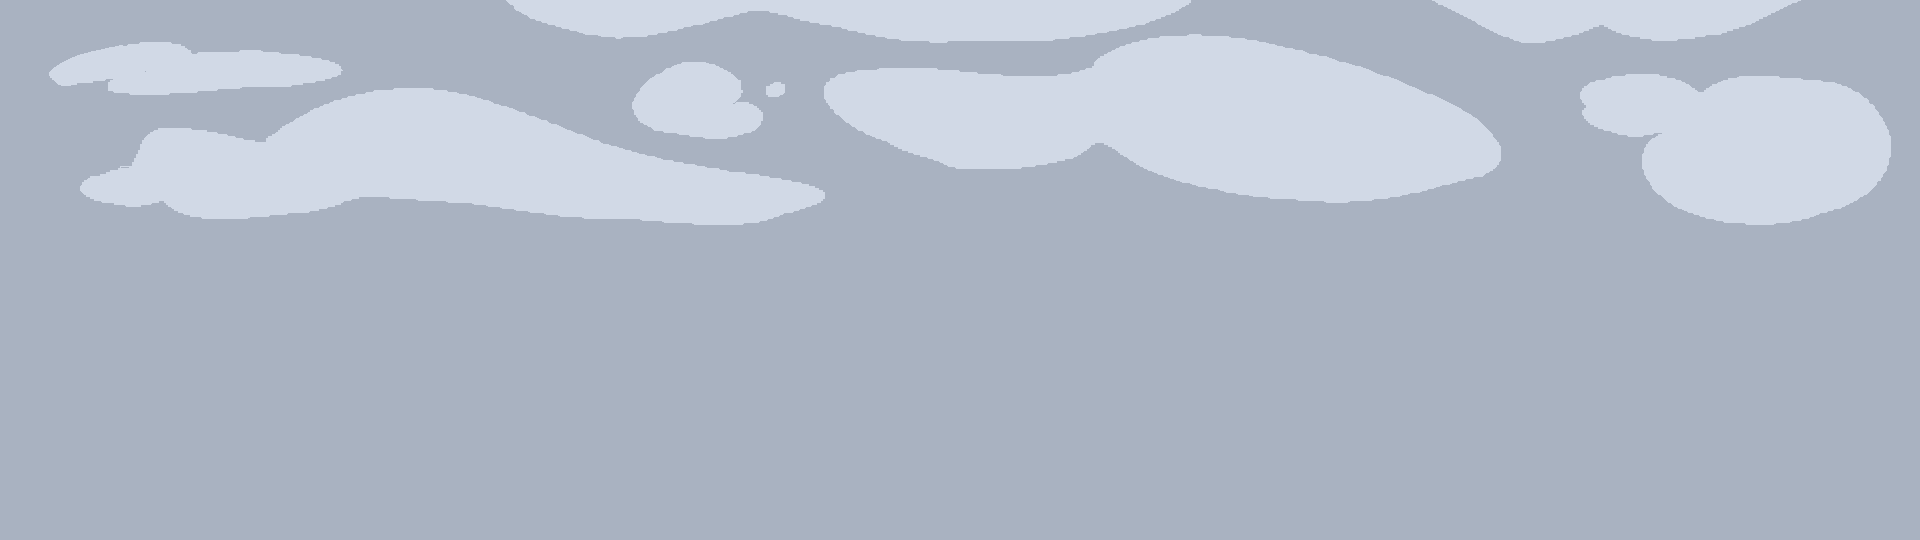
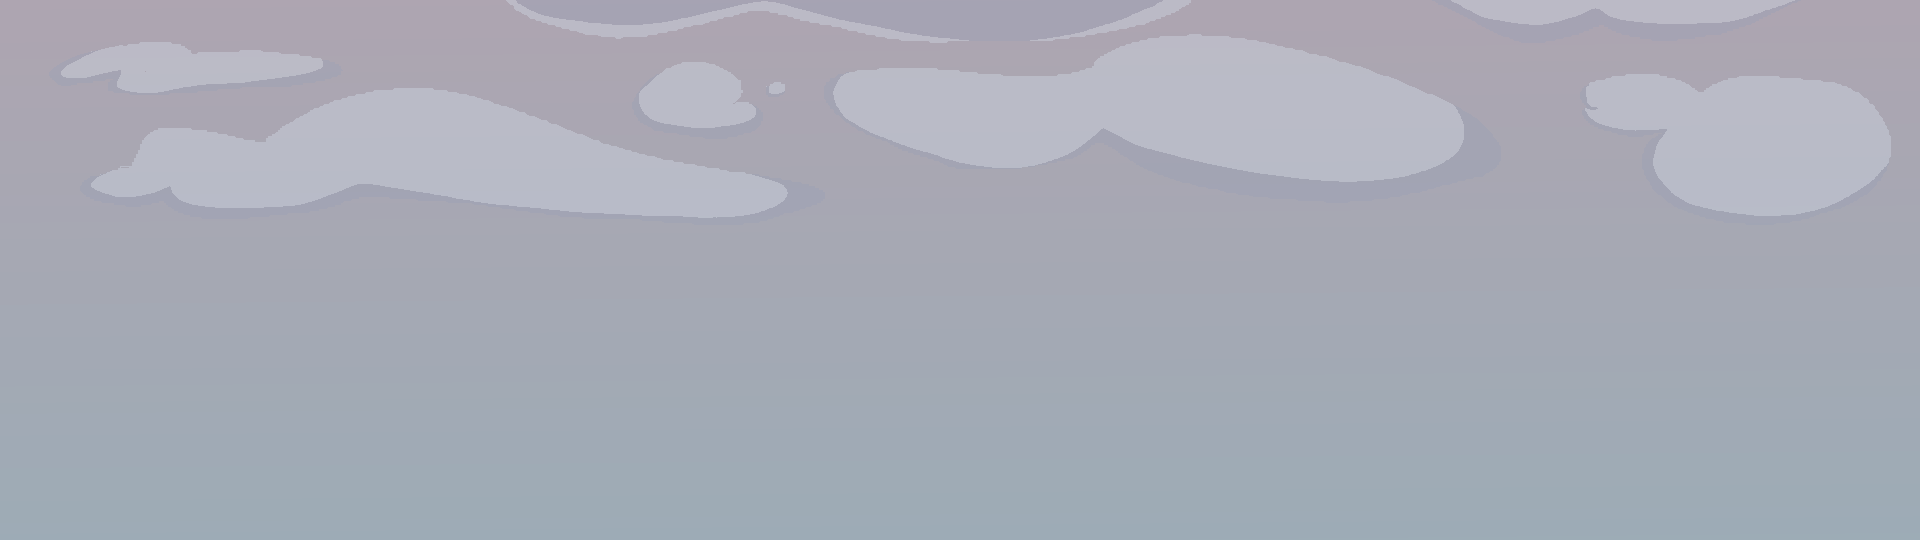
buttons added (reroute controls and credits and improve title background)

diff --git a/src/scenes/Menu.js b/src/scenes/Menu.js
@@ -5,22 +5,72 @@ class Menu extends Phaser.Scene {
 
     preload(){
         //load images
-        this.load.image('clouds', './assets/first.png');
-        this.load.image('city', './assets/tile_menu2.png');
+        this.load.image('clouds', './assets/tile_menu.png');
+        this.load.image('hills1', './assets/front1.png');
+        this.load.image('hills2', './assets/front2.png');
+        this.load.image('hills3', './assets/front3.png');
         this.load.image('hill', './assets/title1.png');
+        this.load.spritesheet('title', './assets/name.png', {frameWidth: 960, frameHeight: 540, startFrame: 0});
+        this.load.image('play', './assets/play_button.png');
+        this.load.image('controls', './assets/control_button.png');
+        this.load.image('credits', './assets/credits_button.png');
         
     }
 
     create(){
-        this.scene.start('playScene1');
+        //this.scene.start('playScene1');
         this.back2 = this.add.tileSprite(0, 0, 960, 540, 'clouds').setOrigin(0, 0);
         //this.back1 = this.add.tileSprite(0, 0, 960, 540, 'city'). setOrigin(0, 0);
-        this.front = this.add.tileSprite(0, 0, 960, 540, 'hill').setOrigin(0, 0);
         
+        this.front3 = this.add.tileSprite(0, 0, 960, 540, 'hills3').setOrigin(0, 0);
+        this.front2 = this.add.tileSprite(0, 0, 960, 540, 'hills2').setOrigin(0, 0);
+        this.front1 = this.add.tileSprite(0, 0, 960, 540, 'hills1').setOrigin(0, 0);
+        
+        this.front = this.add.tileSprite(0, 0, 960, 540, 'hill').setOrigin(0, 0);
+        this.title = this.add.sprite(0, 0, 'title').setOrigin(0, 0);
+        this.play = this.add.sprite(0, 0, 'play').setOrigin(0, 0);
+        this.controls = this.add.sprite(0, 0, 'controls').setOrigin(0, 0);
+        this.credits = this.add.sprite(0, 0, 'credits').setOrigin(0, 0);
+
+        // Enable input events for the whole scene
+        this.play.setInteractive();
+        this.play.on('pointerdown', () => {
+            this.scene.start('playScene1');
+            // Add code here to run when the scene is clicked
+        });
+        this.controls.setInteractive();
+        this.controls.on('pointerdown', () => {
+            this.scene.start('playScene1');
+            // Add code here to run when the scene is clicked
+        });
+
+        this.controls.setInteractive();
+        this.controls.on('pointerdown', () => {
+            this.scene.start('playScene1');
+            // Add code here to run when the scene is clicked
+        });
+
+
+
+        //create animations
+        this.anims.create({
+            key: 'wave',
+            frames: this.anims.generateFrameNumbers('title', {
+                start: 0,
+                end: 6,
+            }),
+            frameRate: 8,
+            repeat: -1
+        });
+
+        this.title.anims.play('wave');
     }
 
     update(){
-        this.back2.tilePositionX -= 0.25;
+        this.back2.tilePositionX -= 0.1;
+        this.front3.tilePositionX += 0.2;
+        this.front2.tilePositionX -= 0.25;
+        this.front1.tilePositionX += 0.3;
         //this.back1.tilePositionX -= 0.5;
         
     }
